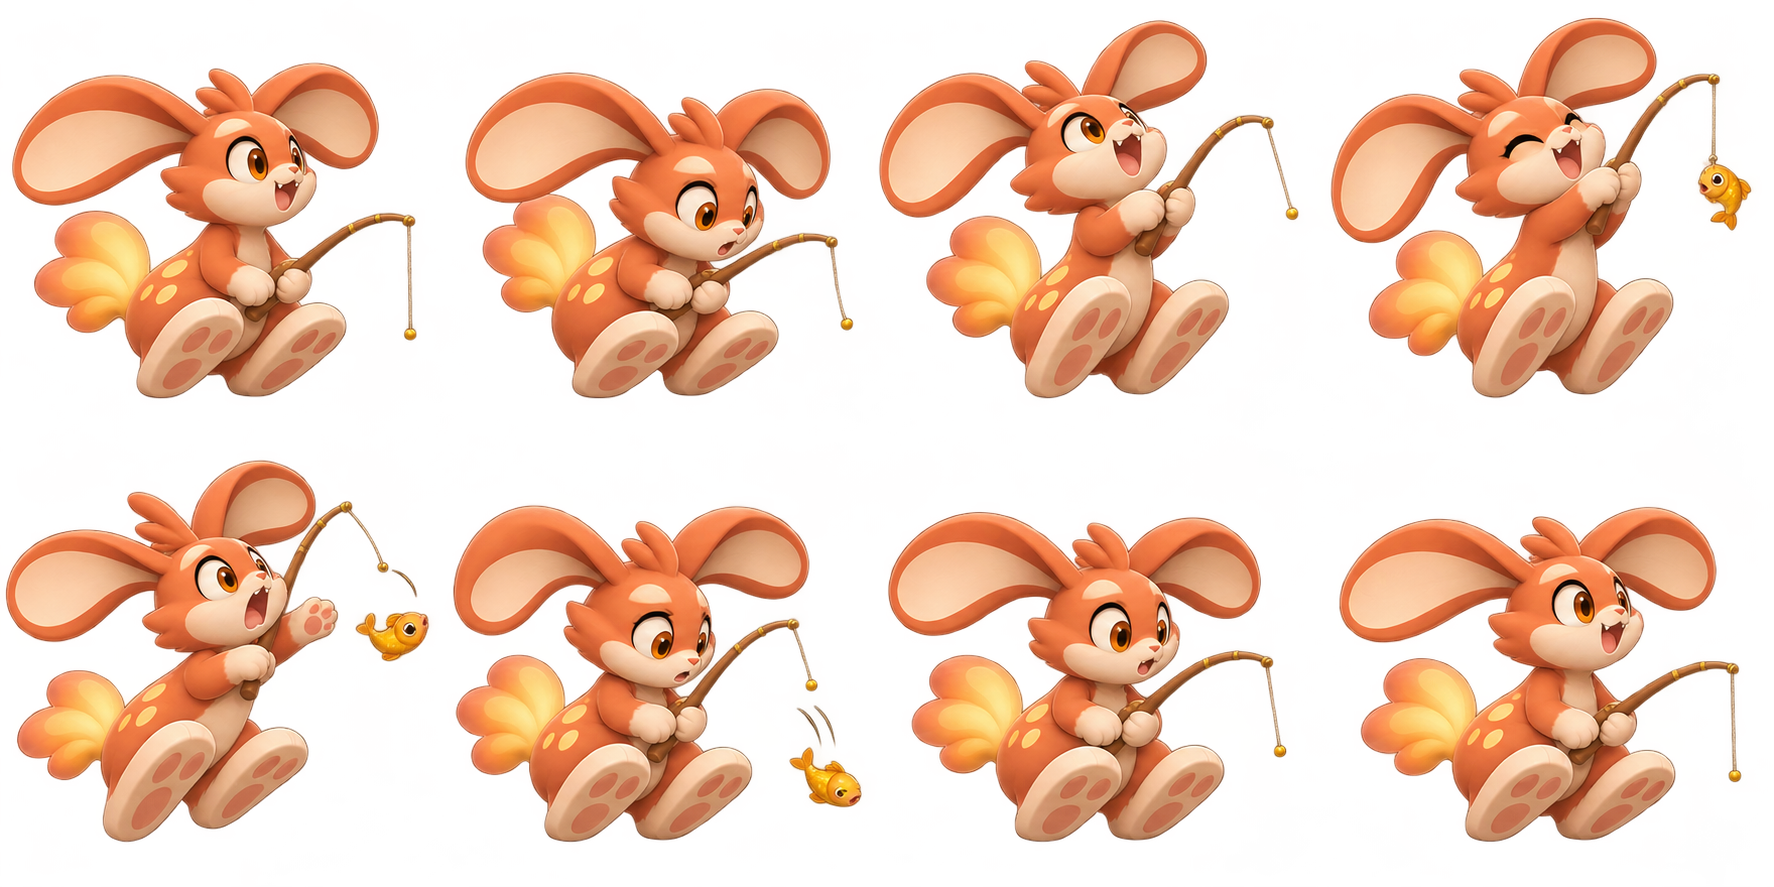
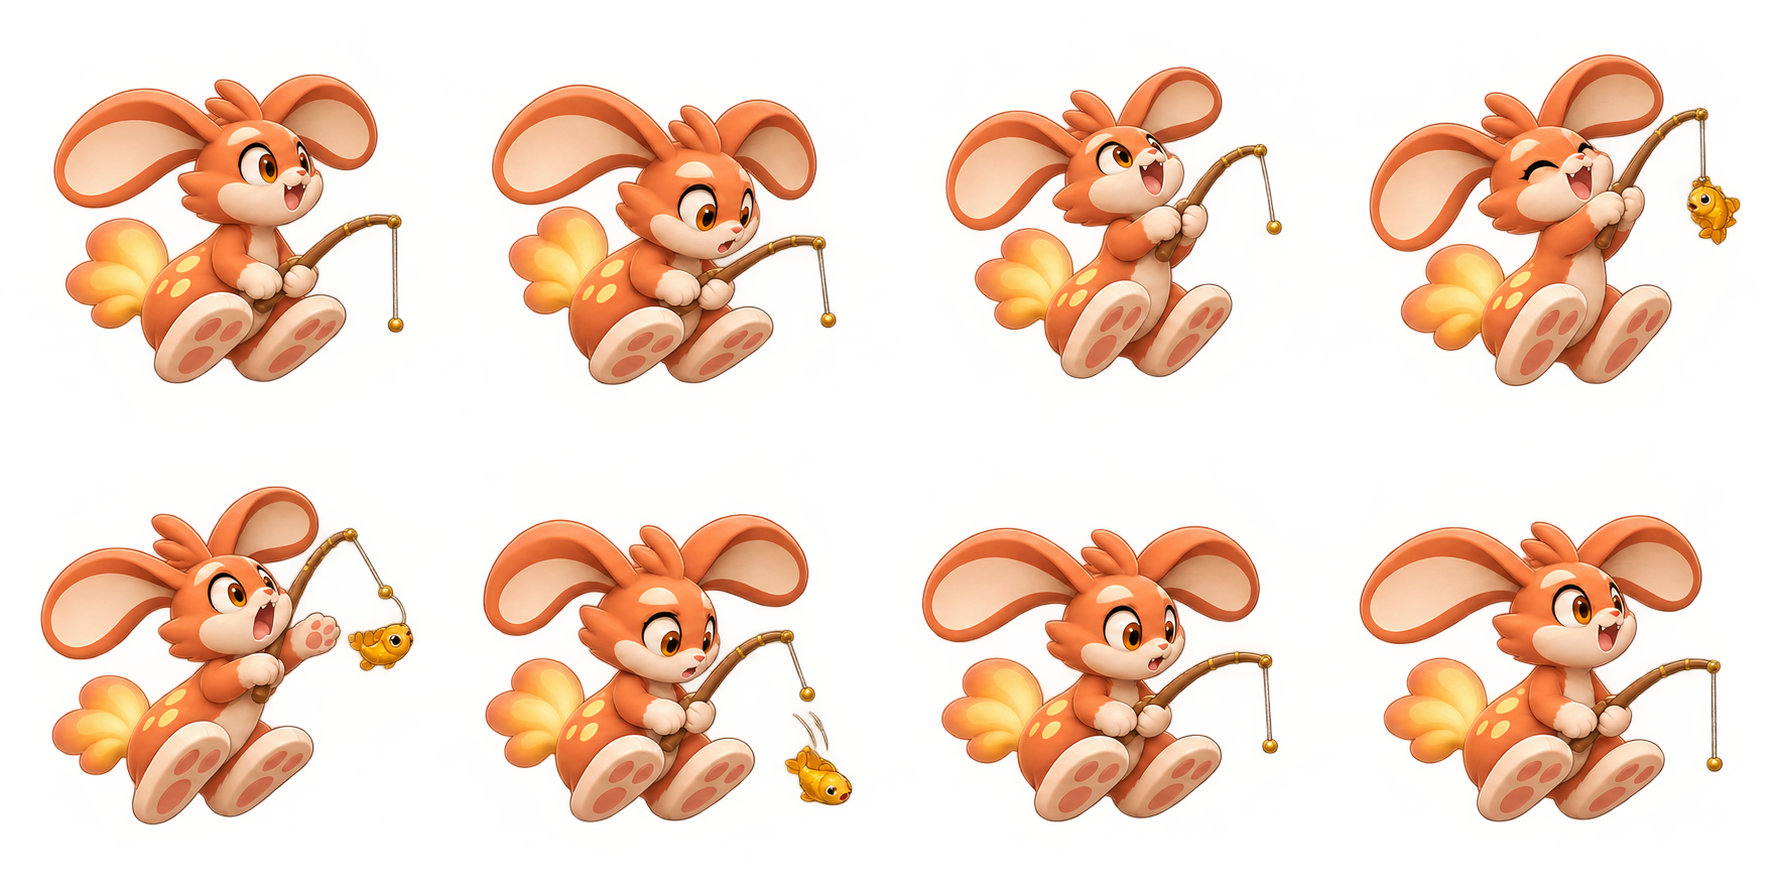
fix(car): clean sprite cell edges after playback review

diff --git a/phone/assets/poses/highway_comet/generation-provenance.md b/phone/assets/poses/highway_comet/generation-provenance.md
@@ -41,3 +41,9 @@ Exact prompt:
 ```text
 Use case: stylized-concept. Production game animation sprite sheet. Use supplied images strictly as character identity and rendering style references. ONE transparent PNG, EXACTLY eight sequential poses in a perfectly aligned 4 column by 2 row equal-cell grid, row-major. Same character scale, fixed three-quarter camera, consistent torso anchor within each cell, full character and all props inside cell with 10% padding. True alpha zero outside art, no backdrop, no floor, no shadows, no grid lines, no labels, no text, no action symbols. Preserve exact color palette, anatomy, markings and soft polished game render. Articulate body parts between frames; never repeat one static pose transformed. Seamless cycle, last pose returns toward first. Character is orange comet rabbit with enormous orange ears and cream inner ears, cream cheeks/belly/paws, large orange-brown eyes, yellow spots on haunch, huge hind feet with pink pads and a fan-shaped golden fluffy comet tail. Preserve exact rabbit identity, four limbs only. Sleeping rabbit curled like reference, eyes closed throughout. Frame1 curled chin on forepaws;2 inhale chest expands and ears rise slightly;3 exhale ears settle;4 one forepaw slides under cheek,head tilts;5 turns slightly onto side,forepaws curl toward chest,hindquarters shift and comet tail wraps closer;6 settles side sleeping and breathes;7 rolls back toward belly,forepaws extend;8 returns curled chin on paws. Ears fold and relax naturally with turning. Actual articulated sleep poses with breathing, tucking and small turn, not identical PNG scaled or bobbed. No Z symbols.
 ```
+
+## Final emulator QA correction
+
+Built-in image generation edit on 2026-11-11. Corrected cell overlap (Highway Comet fishing) or rectangular background haze (Sea Mist swimming). Final prompt:
+
+Sprite sheet layout correction only: preserve these exact eight orange big-eared rabbit fishing action poses in this exact sequence, 4 equal columns by 2 equal rows, 2:1 transparent canvas. Refit each entire pose INCLUDING BOTH EARS, feet, rod, fishing line and fish completely inside its own equal square cell with at least 8 percent transparent padding on all four sides. Top row third pose's left ear currently crosses into the second cell: move and slightly reduce that pose so it is fully inside its own cell. Also keep every other pose away from borders. Consistent character scale across cells. Preserve expressive articulated poses and character design/material. No new objects, no borders or text. Remove stray edge fragments and transparent haze; clean true alpha backdrop.

diff --git a/phone/assets/poses/sea_mist/generation-provenance.md b/phone/assets/poses/sea_mist/generation-provenance.md
@@ -33,3 +33,9 @@ undefined
 Visual review: inspected all eight full-sheet poses for preserved species identity and articulated body/limb or fin differences; original idle/move/sleep images unchanged. Navy-background composite inspection confirms no opaque rectangular backdrop. Some low-alpha edge residue remains; transparent-preview false-color speckles are not visible as colored speckles on navy. Exact 10-percent padding is not guaranteed: selected poses approach the cell boundary, but visible character bodies and props remain within their cells. Runtime playback and actual-device review are integration tasks, not claimed here.
 
 Species adaptation: run is a fin-driven swimming/flying cycle without invented legs. Fishing uses curled existing fin tips; sleeping folds fins, lowers head, and rolls slightly sideways. Run has a soft luminous contour retained after navy visual review.
+
+## Final emulator QA correction
+
+Built-in image generation edit on 2026-11-11. Corrected cell overlap (Highway Comet fishing) or rectangular background haze (Sea Mist swimming). Final prompt:
+
+Background extraction only for this eight-frame 4x2 swimming pet sprite sheet. Preserve the exact mint-colored manta fantasy pet poses and their scale/location, soft 3D shading, lilac markings, white belly, fins and tails. Remove all background haze, all diffuse white glows outside the body outline, and all semitransparent rectangular patches completely. Empty areas must be alpha zero. Clean natural antialiased edges, no exterior glow. Keep each entire pet inside its own equal grid cell. Do not add or change any poses or objects, no text or grid lines. True transparent background.
